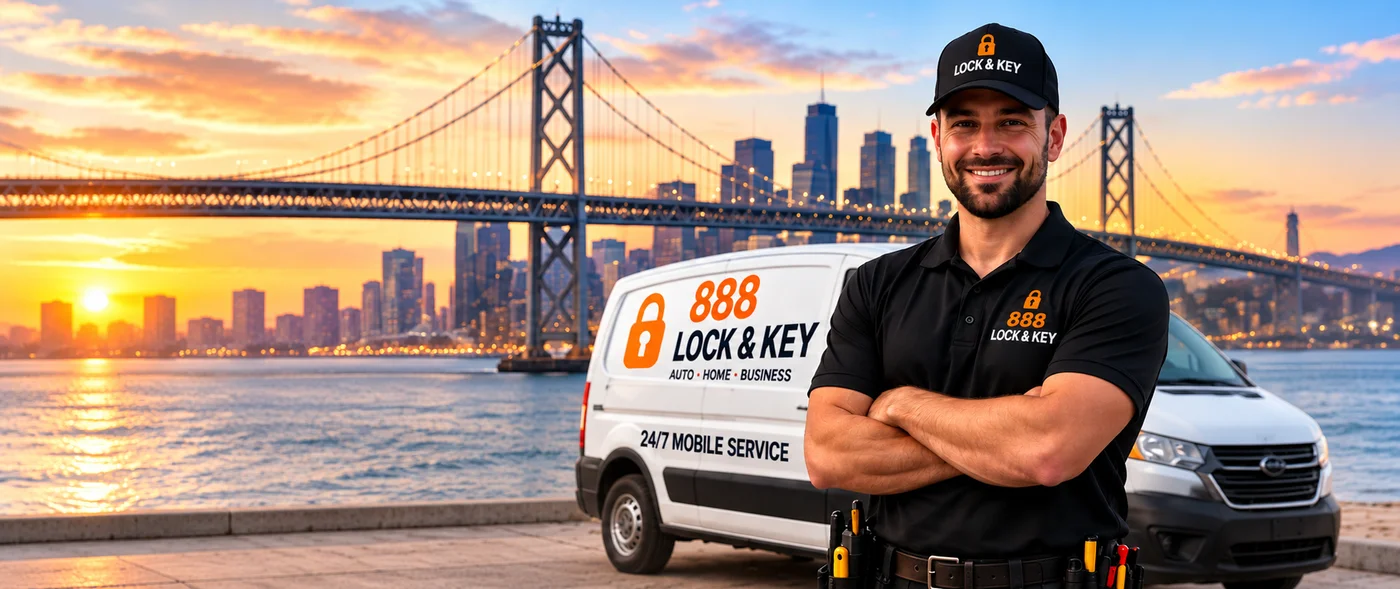
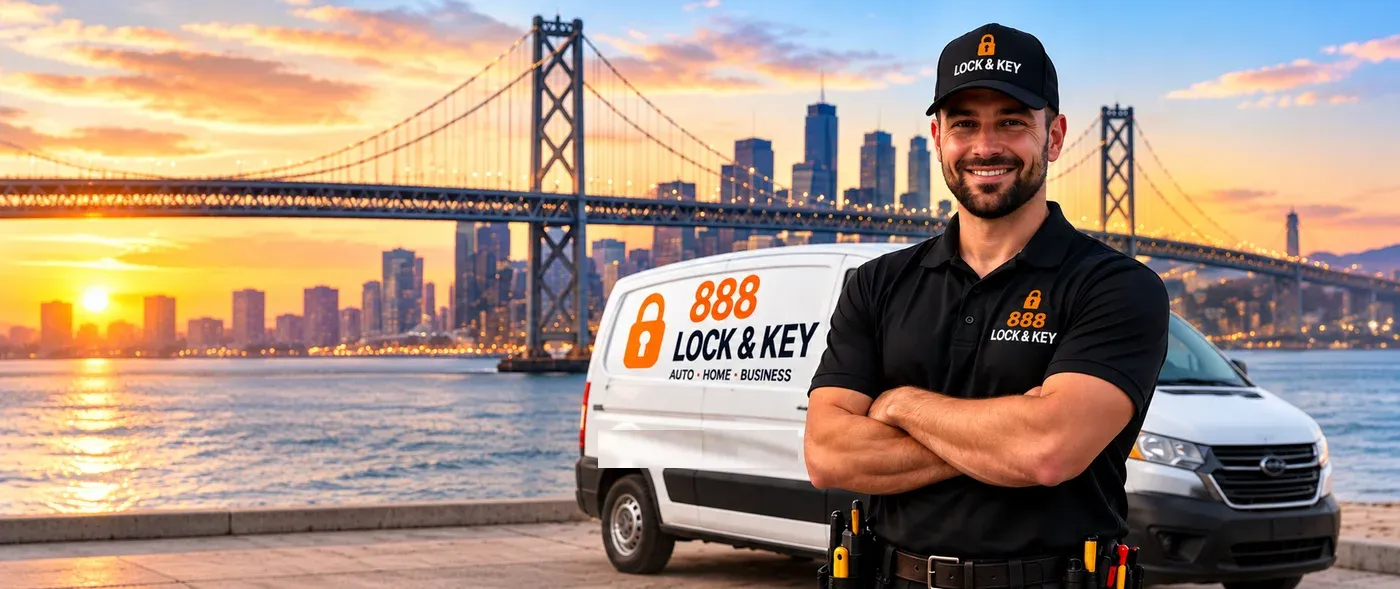
Phases 8-9: launch checklist on the admin dashboard, responsive/browser QA script, sticky bar to 860px, empty states for pricing/reviews, placeholder images without the 24/7 decal

Changed region(s): [[0.43, 0.7029, 0.5836, 0.7946]]

diff --git a/src/components/admin/Dashboard.tsx b/src/components/admin/Dashboard.tsx
@@ -24,9 +24,9 @@ const SECTIONS: { title: string; tiles: Tile[] }[] = [
     tiles: [
       { href: '/admin/globals/home-page', label: 'Home page', hint: 'Hero text, headings, buttons', icon: '🏠' },
       { href: '/admin/collections/pages', label: 'Standalone pages', hint: 'About Us, Privacy Policy, Terms', icon: '📃' },
-      { href: '/admin/collections/services', label: 'Services (6 pages)', hint: 'Prices, descriptions, FAQs per service', icon: '🔧' },
-      { href: '/admin/collections/locations', label: 'Locations (6 pages)', hint: 'Cities, shops, phone, hours', icon: '📍' },
-      { href: '/admin/globals/combo-template', label: 'City page template (36 pages)', hint: 'Wording for [service]-in-[city] pages', icon: '📄' },
+      { href: '/admin/collections/services', label: 'Services', hint: 'Categories, individual services, FAQs', icon: '🔧' },
+      { href: '/admin/collections/locations', label: 'Service areas', hint: 'Bay Area cities and San Jose districts', icon: '📍' },
+      { href: '/admin/globals/page-copy', label: 'Page text', hint: 'Headings and intros on index pages', icon: '📄' },
       { href: '/admin/collections/reviews', label: 'Reviews', hint: 'Customer quotes shown on the site', icon: '⭐' },
       { href: '/admin/collections/faqs', label: 'FAQs', hint: 'Questions and answers', icon: '💬' },
     ],
@@ -34,7 +34,7 @@ const SECTIONS: { title: string; tiles: Tile[] }[] = [
   {
     title: 'Settings & Media',
     tiles: [
-      { href: '/admin/globals/site-settings', label: 'Site settings', hint: 'Phone, licence, hours, ratings', icon: '⚙' },
+      { href: '/admin/globals/site-settings', label: 'Site settings', hint: 'Phone, licence, hours, dispatch hub', icon: '⚙' },
       { href: '/admin/globals/navigation', label: 'Menus', hint: 'Top menu and footer links', icon: '🧭' },
       { href: '/admin/collections/media', label: 'Images', hint: 'Photos used across the site', icon: '🖼' },
       { href: '/admin/collections/users', label: 'Staff logins', hint: 'Who can sign in here', icon: '👤' },
@@ -96,11 +96,25 @@ export const Dashboard = async () => {
     count(payload, 'pages'),
   ])
 
-  // Every service is offered in every city unless a location narrows it down,
-  // which is the same arithmetic the site uses to generate those pages.
-  const comboPages = services * locations
-  // 8 core static pages + services + locations + comboPages + standalone pages (about, terms, privacy)
-  const totalPages = 8 + services + locations + comboPages + standalonePages
+  // Home, Bay Area hub, services index, pricing, reviews, FAQ, contact, request + every service, city and info page.
+  const totalPages = 8 + services + locations + standalonePages
+
+  // Business details the client still has to supply. Nothing fake is shown on
+  // the site in their place, but the site cannot launch without them.
+  let missing: { label: string; why: string }[] = []
+  try {
+    const st = await payload.findGlobal({ slug: 'site-settings', depth: 0 })
+    const checks: [unknown, string, string][] = [
+      [st.phone, 'Business phone number', 'Call buttons currently send visitors to the request form.'],
+      [st.licenseNumber, 'California BSIS licence number', 'Legally required on all advertising before launch.'],
+      [st.hours, 'Operating hours', 'No hours are shown; "24/7" must not be claimed unless true.'],
+      [st.rating && st.reviewCount, 'Google rating & review count', 'Trust badges and star markup are hidden until verified.'],
+      [(st.dispatchHubs ?? []).some((h) => h.postcode), 'ZIP code of the Santa Clara dispatch hub', 'Completes the business address for Google.'],
+    ]
+    missing = checks.filter(([v]) => !v).map(([, label, why]) => ({ label, why }))
+  } catch {
+    missing = []
+  }
 
   let latest: Lead[] = []
   try {
@@ -165,6 +179,23 @@ export const Dashboard = async () => {
         </ul>
       ) : null}
 
+      {missing.length > 0 ? (
+        <section className="dash__missing">
+          <h2 className="dash__title">Missing before launch</h2>
+          <p>
+            These come from the business and cannot be invented. Enter them under{' '}
+            <a href={withBase('/admin/globals/site-settings')}>Site settings</a>.
+          </p>
+          <ul>
+            {missing.map((m) => (
+              <li key={m.label}>
+                <strong>{m.label}</strong> — {m.why}
+              </li>
+            ))}
+          </ul>
+        </section>
+      ) : null}
+
       {SECTIONS.map((section) => (
         <section key={section.title}>
           <h2 className="dash__title">{section.title}</h2>
@@ -193,10 +224,6 @@ export const Dashboard = async () => {
           <span>Cities</span>
         </div>
         <div className="dash__stat">
-          <b>{comboPages}</b>
-          <span>City combo pages</span>
-        </div>
-        <div className="dash__stat">
           <b>{standalonePages}</b>
           <span>Info pages (About/Legal)</span>
         </div>
@@ -207,7 +234,7 @@ export const Dashboard = async () => {
       </div>
 
       <p className="dash__note">
-        Your website currently serves <b>{totalPages} live pages</b>. Adding a service or a city automatically creates its individual page, its service-in-city combo pages, menu links, and sitemap entries.
+        Your website currently serves <b>{totalPages} live pages</b>. Adding a service or a city automatically creates its page and sitemap entry; add it to the menus under Menus.
       </p>
     </Gutter>
   )

diff --git a/src/styles/site.css b/src/styles/site.css
@@ -2314,9 +2314,7 @@ button:active,
   .page-hero h1 { max-width: none; }
   .footer-grid { grid-template-columns: 1fr; }
   .footer-bottom { flex-direction: column; }
-  /* Leave room for the sticky Call / Request bar. */
-  body { padding-bottom: 64px; }
-  .stickybar { display: flex; }
+
   .cta-banner-actions { width: 100%; }
   .cta-banner-actions > * { flex: 1 1 100%; justify-content: center; }
 }
@@ -3207,3 +3205,18 @@ html, body { max-width: 100%; overflow-x: hidden; }
 .check-grid li { display: flex; align-items: flex-start; gap: 10px; font-weight: 500; }
 .check-grid li svg { width: 18px; height: 18px; color: var(--green); flex-shrink: 0; margin-top: 3px; }
 @media (max-width: 640px) { .check-grid { grid-template-columns: 1fr; } }
+
+/* Sticky Call / Request bar: phones and tablets, as in the client prototype (< 860px). */
+@media (max-width: 859px) {
+  body { padding-bottom: 64px; }
+  .stickybar { display: flex; }
+}
+/* FAQ footer buttons wrap on narrow phones instead of overflowing. */
+.faq-bottom-bar, .faq-bottom-links { flex-wrap: wrap; }
+@media (max-width: 480px) {
+  .faq-bottom-links { width: 100%; }
+  .faq-bottom-links .btn { flex: 1 1 100%; justify-content: center; }
+}
+.empty-state { max-width: 640px; padding: 28px 30px; border-radius: var(--radius); background: var(--bg-sand); border: 1px solid var(--line-sand); }
+.empty-state h2 { margin: 0 0 8px; font-size: 1.3rem; }
+.empty-state p { margin: 0; color: var(--muted); line-height: 1.6; }

diff --git a/src/app/(frontend)/reviews/page.tsx b/src/app/(frontend)/reviews/page.tsx
@@ -23,7 +23,7 @@ const ReviewsPage = async () => {
       <JsonLd data={reviewSchema(settings, reviews)} />
 
       <PageHero
-        eyebrow={copy.reviews?.eyebrow || `${settings.rating} · ${settings.reviewCount}+ reviews`}
+        eyebrow={copy.reviews?.eyebrow || (settings.rating && settings.reviewCount ? `${settings.rating} · ${settings.reviewCount}+ reviews` : 'Reviews')}
         title={copy.reviews?.title ?? 'What our customers say'}
         intro={copy.reviews?.intro}
         crumbs={[{ label: 'Home', href: '/' }, { label: 'Reviews' }]}
@@ -31,11 +31,19 @@ const ReviewsPage = async () => {
 
       <section className="sec">
         <div className="wrap">
-          <div className="review-static-grid">
-            {reviews.map((review) => (
-              <ReviewCard key={review.id} review={review} />
-            ))}
-          </div>
+          {reviews.length > 0 ? (
+            <div className="review-static-grid">
+              {reviews.map((review) => (
+                <ReviewCard key={review.id} review={review} />
+              ))}
+            </div>
+          ) : (
+            // Honest empty state until verified reviews are entered in the admin (D6).
+            <div className="empty-state">
+              <h2>Reviews are on their way</h2>
+              <p>We only publish verified customer reviews. Check back soon, or ask us for references when you call.</p>
+            </div>
+          )}
         </div>
       </section>
 

diff --git a/src/app/(frontend)/services/[slug]/page.tsx b/src/app/(frontend)/services/[slug]/page.tsx
@@ -4,7 +4,7 @@ import { notFound } from 'next/navigation'
 import { PageHero } from '../../../../components/Hero'
 import { FaqList } from '../../../../components/FaqList'
 import { Prose, CtaBanner, SectionHead } from '../../../../components/blocks'
-import { CallButton } from '../../../../components/CallButton'
+import { HeroActions } from '../../../../components/CallButton'
 import { Icon } from '../../../../components/Icon'
 import { ServiceCardGrid, AreasWeServe, LinkPills, asDocs } from '../../../../components/ServiceBlocks'
 import { getService, getServices, getLocations, getSiteSettings } from '../../../../lib/data'
@@ -72,14 +72,7 @@ const ServicePage = async (props: { params: Promise<{ slug: string }> }) => {
         intro={service.intro}
         image={service.heroImage ?? settings.defaultHeroImage}
         crumbs={crumbs.map((c, i) => (i === crumbs.length - 1 ? { label: c.label } : c))}
-        actions={
-          <>
-            <CallButton phone={phone} label={service.ctaLabel || 'Call Now —'} hideNumber={Boolean(service.ctaLabel)} primary />
-            <Link href="/book" className="btn-hero-secondary">
-              Request Service
-            </Link>
-          </>
-        }
+        actions={<HeroActions phone={phone} label={service.ctaLabel} hideNumber={Boolean(service.ctaLabel)} />}
       />
 
       {service.disclaimer ? (

diff --git a/src/app/(frontend)/locations/[slug]/page.tsx b/src/app/(frontend)/locations/[slug]/page.tsx
@@ -4,7 +4,7 @@ import { notFound } from 'next/navigation'
 import { PageHero } from '../../../../components/Hero'
 import { FaqList } from '../../../../components/FaqList'
 import { CtaBanner, SectionHead } from '../../../../components/blocks'
-import { CallButton } from '../../../../components/CallButton'
+import { HeroActions } from '../../../../components/CallButton'
 import { ServiceCardGrid, LinkPills, asDocs } from '../../../../components/ServiceBlocks'
 import { getLocation, getLocations, getServices, getSiteSettings, servicesForLocation, regionLabel } from '../../../../lib/data'
 import { phoneOf } from '../../../../lib/contact'
@@ -85,14 +85,7 @@ const LocationPage = async (props: { params: Promise<{ slug: string }> }) => {
         intro={location.intro}
         image={location.image ?? settings.defaultHeroImage}
         crumbs={crumbs.map((c, i) => (i === crumbs.length - 1 ? { label: c.label } : c))}
-        actions={
-          <>
-            <CallButton phone={phone} label="Call Now —" primary />
-            <Link href="/book" className="btn-hero-secondary">
-              Request Service
-            </Link>
-          </>
-        }
+        actions={<HeroActions phone={phone} />}
       />
 
       {(location.neighbourhoods ?? []).length > 0 ? (

diff --git a/src/app/(frontend)/pricing/page.tsx b/src/app/(frontend)/pricing/page.tsx
@@ -22,7 +22,7 @@ const PricingPage = async () => {
     getHomeFaqs(),
     getPageCopy(),
   ])
-  const priced = services.filter((s) => s.showInPricingTable)
+  const priced = services.filter((s) => s.showInPricingTable && s.startingPrice)
 
   return (
     <>
@@ -38,8 +38,20 @@ const PricingPage = async () => {
 
       <section className="sec">
         <div className="wrap">
-          <PricingTable services={priced} />
-          {copy.pricingNote ? <p className="table-note">{copy.pricingNote}</p> : null}
+          {priced.length > 0 ? (
+            <>
+              <PricingTable services={priced} />
+              {copy.pricingNote ? <p className="table-note">{copy.pricingNote}</p> : null}
+            </>
+          ) : (
+            // Honest empty state until the client confirms starting prices (D6).
+            <div className="empty-state">
+              <h2>Pricing is confirmed on the phone</h2>
+              <p>
+                Every job is quoted before a technician is sent, and the price is confirmed with you before any work begins. Call or send a request and a dispatcher will give you the price for your job.
+              </p>
+            </div>
+          )}
         </div>
       </section>
 

diff --git a/src/app/(frontend)/bay-area-locksmith/page.tsx b/src/app/(frontend)/bay-area-locksmith/page.tsx
@@ -3,7 +3,7 @@ import Link from 'next/link'
 import { PageHero } from '../../../components/Hero'
 import { RegionGrid } from '../../../components/RegionGrid'
 import { CtaBanner, SectionHead } from '../../../components/blocks'
-import { CallButton } from '../../../components/CallButton'
+import { HeroActions } from '../../../components/CallButton'
 import { LinkPills } from '../../../components/ServiceBlocks'
 import { getLocations, getServices, getSiteSettings, getPageCopy } from '../../../lib/data'
 import { phoneOf } from '../../../lib/contact'
@@ -46,14 +46,7 @@ const BayAreaPage = async () => {
         intro={copy.locations?.intro}
         image={settings.defaultHeroImage}
         crumbs={[crumbs[0], { label: crumbs[1].label }]}
-        actions={
-          <>
-            <CallButton phone={phone} label="Call Now —" primary />
-            <Link href="/book" className="btn-hero-secondary">
-              Request Service
-            </Link>
-          </>
-        }
+        actions={<HeroActions phone={phone} />}
       />
 
       <section className="sec">

diff --git a/src/components/CallButton.tsx b/src/components/CallButton.tsx
@@ -35,3 +35,19 @@ export const CallButton = ({ phone, className = 'btn-hero-primary', label, hideN
     </a>
   )
 }
+
+/**
+ * Hero button pair: Call (or its Request fallback) plus Request Service. The
+ * second button is dropped while there is no phone number, otherwise the hero
+ * would show two identical "Request Service" buttons.
+ */
+export const HeroActions = ({ phone, label, hideNumber }: { phone: Phone | null; label?: string | null; hideNumber?: boolean }) => (
+  <>
+    <CallButton phone={phone} label={label ?? 'Call Now —'} hideNumber={hideNumber} primary />
+    {phone ? (
+      <Link href="/book" className="btn-hero-secondary">
+        Request Service
+      </Link>
+    ) : null}
+  </>
+)

diff --git a/src/components/Hero.tsx b/src/components/Hero.tsx
@@ -57,10 +57,12 @@ export const Hero = ({ home, settings }: Props) => {
 
           <div className="hero-cta">
             <CallButton phone={phoneOf(settings)} label={home.primaryCtaLabel ?? 'Call'} primary />
-            <Link href="/book" className="btn-hero-secondary">
-              {home.secondaryCtaLabel ?? 'Request Service'}
-              <Icon name="arrow" />
-            </Link>
+            {phoneOf(settings) ? (
+              <Link href="/book" className="btn-hero-secondary">
+                {home.secondaryCtaLabel ?? 'Request Service'}
+                <Icon name="arrow" />
+              </Link>
+            ) : null}
           </div>
 
           {url ? (

diff --git a/src/app/(payload)/custom.scss b/src/app/(payload)/custom.scss
@@ -739,3 +739,15 @@ h1.doc-header__title,
   &:hover { background: var(--theme-elevation-100); color: #dc2626; }
 }
 #nav-global-page-copy::before      { content: '✏'; }
+
+/* "Missing before launch" panel on the dashboard */
+.dash__missing {
+  margin: 8px 0 28px;
+  padding: 18px 22px;
+  border-radius: 14px;
+  background: #fff7ed;
+  border: 1px solid rgba(234, 88, 12, 0.35);
+}
+.dash__missing .dash__title { margin-top: 0; color: #9a3412; }
+.dash__missing p { margin: 0 0 10px; }
+.dash__missing ul { margin: 0; padding-left: 18px; display: grid; gap: 6px; }

diff --git a/src/globals/PageCopy.ts b/src/globals/PageCopy.ts
@@ -68,7 +68,7 @@ export const PageCopy: GlobalConfig = {
               name: 'pricingNote',
               type: 'textarea',
               label: 'Note under the price table',
-              defaultValue: 'Prices are starting points for standard work during normal hours. After-hours call-outs carry a flat fee quoted on the phone before we dispatch.',
+              defaultValue: 'Prices are starting points for standard work. Your technician confirms the exact price before any work begins.',
             },
           ],
         },

diff --git a/seo-qa-report.md b/seo-qa-report.md
@@ -1,6 +1,6 @@
 # SEO QA report
 
-Generated 2026-09-22T09:56:38.779Z against http://localhost:3460. 49 URLs from the sitemap.
+Generated 2026-09-22T10:13:08.661Z against http://localhost:3460. 49 URLs from the sitemap.
 
 ## Problems
 
